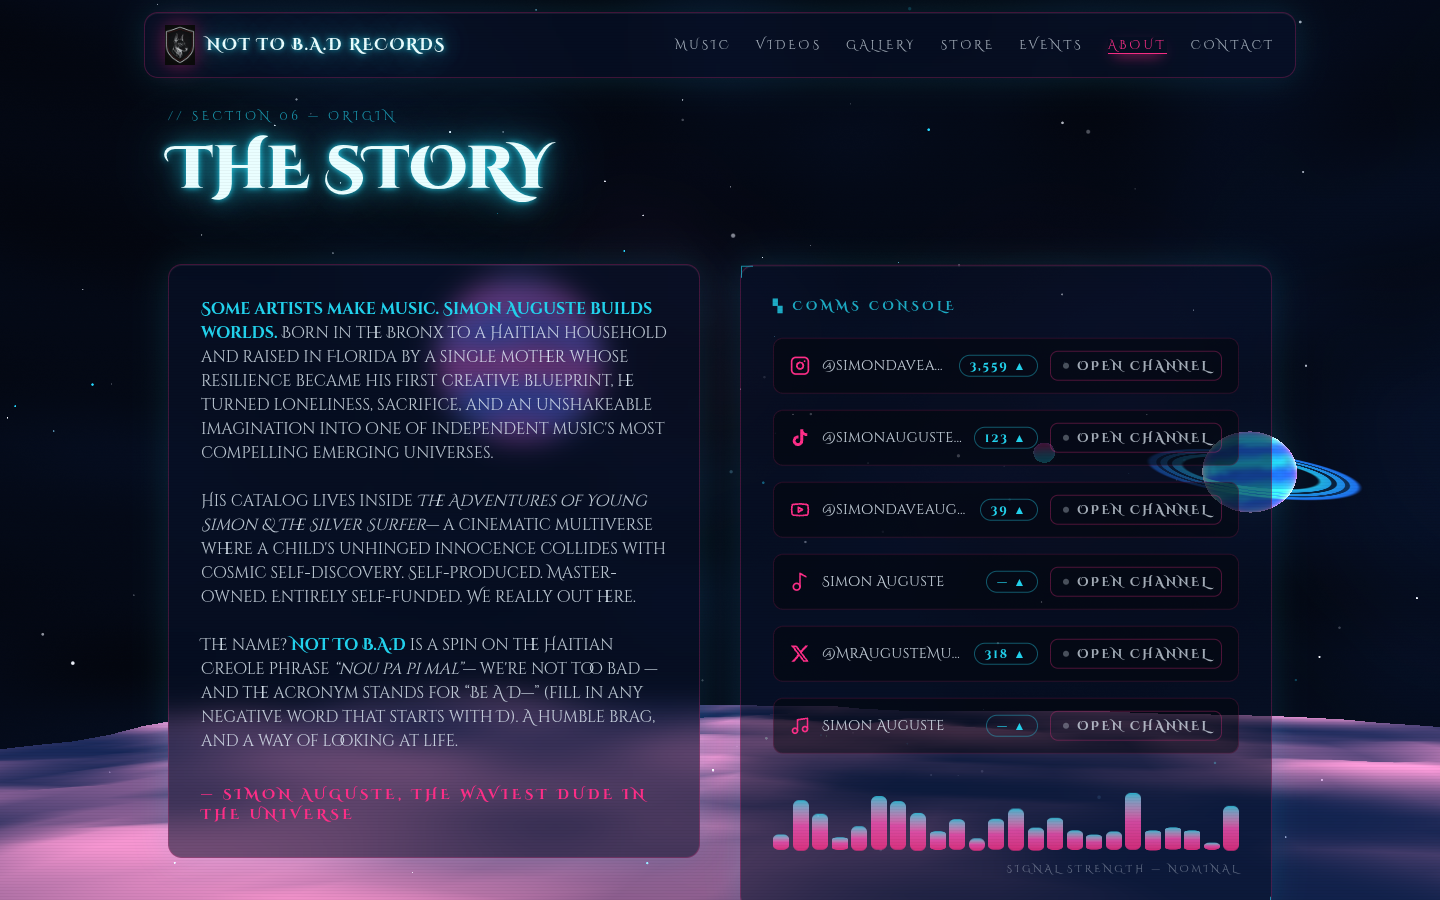
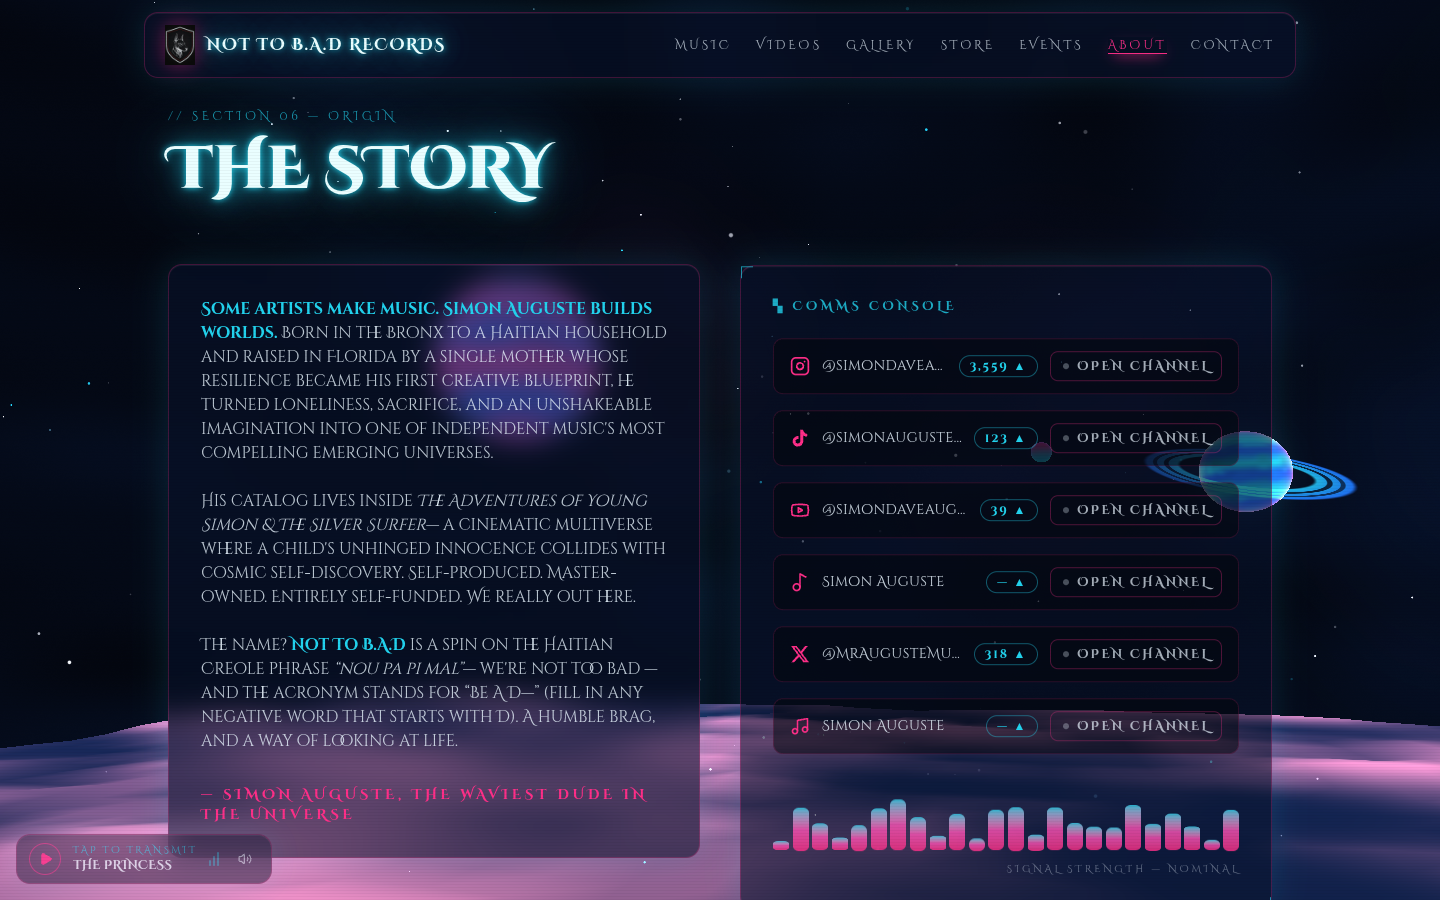
Wire up The Princess as the site-wide ambient track
The uploaded master moves to public/audio/the-princess.mp3 and loads
with preload=metadata so visitors don't spend 6MB before pressing play.
The NOW PLAYING bar in Music now mirrors real playback position and the
track's true 4:27 runtime instead of decorative values. Play/pause and
mute controls carry tooltips.

The verifier gained Range-request support and correct audio MIME so it
exercises media the way a real host serves it; a media transfer cut
short after metadata is no longer reported as a page error.

Claude-Session: https://claude.ai/code/session_01BqghB9EY3JXAhu3KfkDg6k

diff --git a/components/fanhub/now-playing.tsx b/components/fanhub/now-playing.tsx
@@ -1,19 +1,41 @@
 "use client";
 
-import { useState } from "react";
+import { useEffect, useState } from "react";
 import { motion } from "motion/react";
 
 import { releases } from "@/lib/content";
-import { announceMediaOpen } from "@/lib/media-bus";
+import { announceMediaOpen, getAmbientAudio } from "@/lib/media-bus";
 import { BorderBeam } from "@/components/magicui/border-beam";
 import { ShimmerButton } from "@/components/magicui/shimmer-button";
 import { CoverArt } from "@/components/fanhub/cover-art";
 import { useReducedMotion } from "@/components/sections/use-reduced-motion";
 
+/** Seconds -> m:ss. */
+function clock(seconds: number): string {
+  const whole = Math.max(0, Math.floor(seconds));
+  return `${Math.floor(whole / 60)}:${String(whole % 60).padStart(2, "0")}`;
+}
+
 export function NowPlaying() {
   const reduced = useReducedMotion();
   const [playerLoaded, setPlayerLoaded] = useState(false);
   const release = releases[0];
+
+  // Mirror the site-wide ambient player when this release is the one it
+  // loops; otherwise the bar stays decorative.
+  const [pos, setPos] = useState({ time: 0, duration: 0 });
+  useEffect(() => {
+    if (!release.audioUrl) return;
+    const id = window.setInterval(() => {
+      const audio = getAmbientAudio();
+      if (!audio || !Number.isFinite(audio.duration) || audio.duration <= 0) return;
+      setPos({ time: audio.currentTime, duration: audio.duration });
+    }, 500);
+    return () => window.clearInterval(id);
+  }, [release.audioUrl]);
+
+  const live = pos.duration > 0;
+  const percent = live ? `${Math.min(100, (pos.time / pos.duration) * 100)}%` : "37%";
 
   return (
     <div className="glass-panel relative overflow-hidden p-6 md:p-8">
@@ -52,14 +74,20 @@ export function NowPlaying() {
                 className="h-full rounded-full bg-gradient-to-r from-sunset-orange to-sunset-gold shadow-[0_0_12px_rgba(34,211,238,.7)]"
                 initial={{ width: "37%" }}
                 animate={
-                  reduced ? { width: "37%" } : { width: ["37%", "40%", "37%"] }
+                  live || reduced
+                    ? { width: percent }
+                    : { width: ["37%", "40%", "37%"] }
                 }
-                transition={{ duration: 8, repeat: Infinity, ease: "easeInOut" }}
+                transition={
+                  live
+                    ? { duration: 0.5, ease: "linear" }
+                    : { duration: 8, repeat: Infinity, ease: "easeInOut" }
+                }
               />
             </div>
             <div className="mt-2 flex justify-between text-xs tracking-[0.2em] text-foreground/50">
-              <span>1:24</span>
-              <span>3:47</span>
+              <span>{live ? clock(pos.time) : "1:24"}</span>
+              <span>{live ? clock(pos.duration) : "3:47"}</span>
             </div>
           </div>
 

diff --git a/components/fanhub/ambient-player.tsx b/components/fanhub/ambient-player.tsx
@@ -10,7 +10,7 @@ import { Pause, Play, Volume2, VolumeX } from "lucide-react";
 import { useCallback, useEffect, useRef, useState } from "react";
 
 import { releases } from "@/lib/content";
-import { MEDIA_OPEN_EVENT } from "@/lib/media-bus";
+import { MEDIA_OPEN_EVENT, setAmbientAudio } from "@/lib/media-bus";
 import { cn } from "@/lib/utils";
 
 const STORAGE_KEY = "ntb-ambient-audio";
@@ -53,8 +53,12 @@ export function AmbientPlayer() {
       fail();
       return;
     }
+    setAmbientAudio(audio);
     audio.addEventListener("error", fail);
-    return () => audio.removeEventListener("error", fail);
+    return () => {
+      audio.removeEventListener("error", fail);
+      setAmbientAudio(null);
+    };
   }, []);
 
   // Restore preference, then attempt autoplay.
@@ -132,11 +136,13 @@ export function AmbientPlayer() {
 
   return (
     <div className="pointer-events-none fixed bottom-4 left-4 z-40 print:hidden">
+      {/* preload="metadata": the master is several MB, so don't spend a
+          visitor's data until playback actually starts */}
       <audio
         ref={audioRef}
         src={track.audioUrl}
         loop
-        preload="auto"
+        preload="metadata"
         onPlay={() => setPlaying(true)}
         onPause={() => setPlaying(false)}
         onError={() => setUnavailable(true)}
@@ -150,6 +156,7 @@ export function AmbientPlayer() {
         <button
           type="button"
           onClick={toggle}
+          title={playing ? "Pause the music" : "Play the music"}
           aria-label={playing ? "Pause background music" : "Play background music"}
           className="flex h-8 w-8 shrink-0 items-center justify-center rounded-full border border-sunset-pink/60 text-sunset-pink transition-transform hover:scale-110"
         >
@@ -191,6 +198,7 @@ export function AmbientPlayer() {
         <button
           type="button"
           onClick={toggleMute}
+          title={muted ? "Unmute" : "Mute"}
           aria-label={muted ? "Unmute background music" : "Mute background music"}
           className="flex h-7 w-7 shrink-0 items-center justify-center rounded-full text-foreground/60 transition-colors hover:text-sunset-gold"
         >

diff --git a/lib/media-bus.ts b/lib/media-bus.ts
@@ -8,3 +8,15 @@ export function announceMediaOpen(): void {
   if (typeof window === "undefined") return;
   window.dispatchEvent(new CustomEvent(MEDIA_OPEN_EVENT));
 }
+
+// The ambient player owns the only <audio> element; the Music section reads
+// it so its NOW PLAYING bar tracks real playback instead of faking it.
+let ambientAudio: HTMLAudioElement | null = null;
+
+export function setAmbientAudio(el: HTMLAudioElement | null): void {
+  ambientAudio = el;
+}
+
+export function getAmbientAudio(): HTMLAudioElement | null {
+  return ambientAudio;
+}
